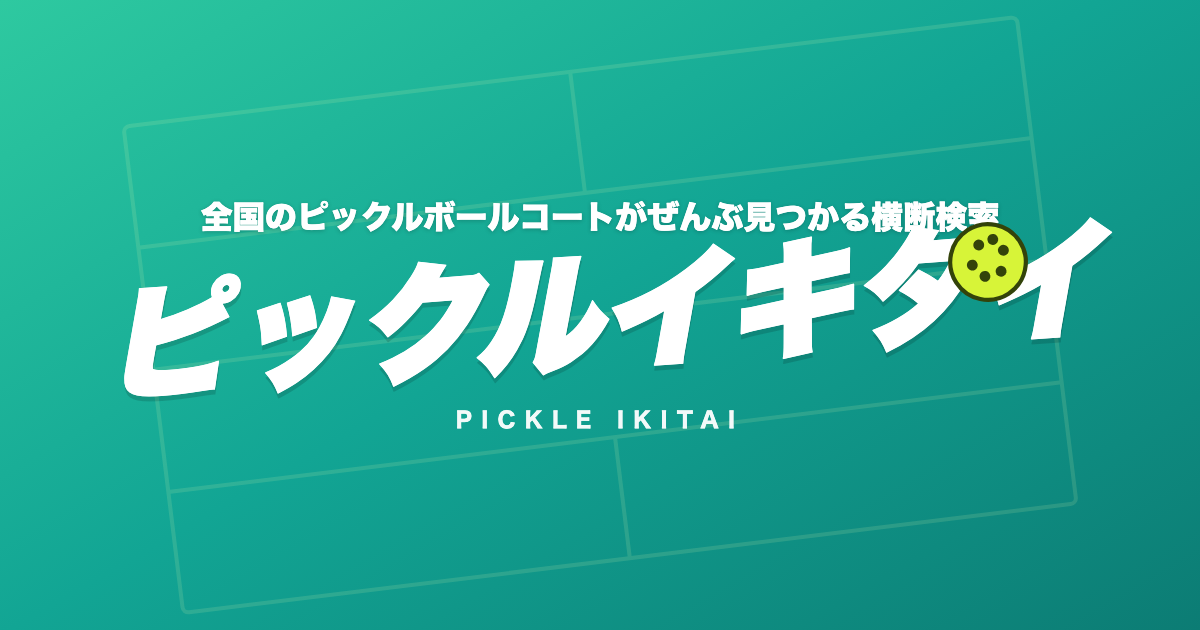
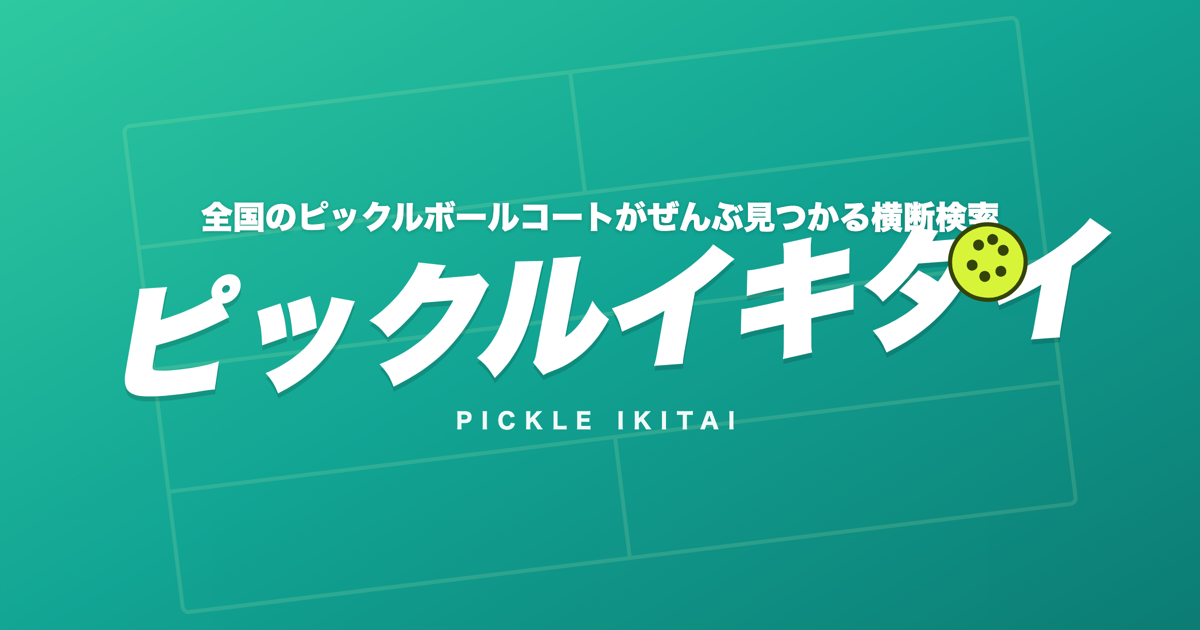
Go nationwide: +27 courts, 旅先/リゾート category, sharper OGP
- Add 27 verified courts across Japan (Kansai/Chubu/Kyushu/Hokkaido +
  Kanto ex-Tokyo), each with coords for distance sorting
- Resort/hotel courts flagged and grouped under a 旅先・リゾート category
  (serves the "travel destination pickleball" need)
- Availability grid now scoped to live Tokyo courts (real data); the
  directory/search/近い順 go nationwide via geolocation distance
- Copy updated 東京 -> 全国 across app, title, description, OGP
- Regenerate OGP at 2x then downscale for a crisp, non-blurry card

diff --git a/src/App.jsx b/src/App.jsx
@@ -115,6 +115,46 @@ const SEED_FACILITIES = [
       { id: "picklr-play", name: "PLAY会員（月額）", kind: "court", price: 19800, unit: "月", capacity: null, label: "入会¥16,500＋¥19,800/月" },
       { id: "picklr-unlimited", name: "UNLIMITED会員（月額）", kind: "court", price: 29700, unit: "月", capacity: null, label: "入会¥27,500＋¥29,700/月" },
     ], rating: "国内最大級・屋内7面", url: "https://www.picklr.jp/locations/tokyo-toyosu", note: "塩浜・屋内7面の国内最大級・米PICKLR日本初上陸", upcoming: true, openDate: "2026年秋" },
+
+  /* ==== 全国のコート（2026-07 調査で確認・確度高い専用/リゾート） ==== */
+  // --- 関東（東京以外） ---
+  { id: "ocean-tsurumi", name: "OCEAN PICKLE CLUB 鶴見", area: "神奈川県", lat: 35.51, lng: 139.68, indoor: false, live: false, cat: "dedicated", plans: [courtPlan("ocean-tsurumi", 4000, "¥4,000/h〜")], rating: "屋外ハード2面", url: "https://www.oceangp.com/about/sports/", note: "横浜市鶴見・デコターフ2面・用具レンタル可" },
+  { id: "raym-kawaguchi", name: "レイムテニスセンター", area: "埼玉県", lat: 35.83, lng: 139.72, indoor: false, live: false, cat: "conv", plans: [courtPlan("raym-kawaguchi", 4400, "¥4,400/h〜")], rating: "屋外2面", url: "https://raym.tsjpn.com/pickleball/", note: "川口市・ハードコート2面・毎週金曜講習会" },
+  { id: "bellwood-matsudo", name: "ベルウッドテニスガーデン", area: "千葉県", lat: 35.79, lng: 139.94, indoor: false, live: false, cat: "dedicated", plans: [courtPlan("bellwood-matsudo", 2200, "¥2,200〜")], rating: "屋外専用2面", url: "https://pickle-one.com/court/chiba/matsudo/bell-wood/", note: "松戸市・2025年専用コート完成・東松戸駅" },
+  { id: "impact-tsukuba", name: "IMPACTつくばピックルボールクラブ", area: "茨城県", lat: 36.08, lng: 140.11, indoor: false, live: false, cat: "dedicated", plans: [courtPlan("impact-tsukuba", 1650, "平日¥1,650〜")], rating: "屋外4面", url: "https://impact-tsukubapickleball-club.square.site/", note: "つくば市・県内初の本格専用4面・2025年6月オープン", cheap: true },
+  { id: "maebashi-pc", name: "前橋ピックルボールセンター", area: "群馬県", lat: 36.32, lng: 139.00, indoor: true, live: false, cat: "dedicated", plans: [courtPlan("maebashi-pc", 3300, "平日¥3,300〜")], rating: "屋内3面", url: "https://goldsgym.jp/news/27874", note: "高崎市・県内初の専用3面・2024年8月オープン" },
+  { id: "prex-tochigi", name: "P-REX（ピーレックス）", area: "栃木県", lat: 36.68, lng: 139.96, indoor: false, live: false, cat: "dedicated", plans: [courtPlan("prex-tochigi", 2200, "要問合せ")], rating: "屋外専用", url: "https://prex-tk.com/", note: "さくら市・日本初の専用屋外コート（2021年）・スクール運営" },
+
+  // --- 関西 ---
+  { id: "dpc-kobe", name: "DIADEM PICKLEBALL KOBE", area: "兵庫県", lat: 34.65, lng: 135.14, indoor: true, live: false, cat: "dedicated", plans: [courtPlan("dpc-kobe", 4400, "¥4,400/h")], rating: "屋内5面", url: "https://dpckobe.jp/", note: "神戸市長田・日本最大級5面・米DIADEM提携・新長田駅近" },
+  { id: "pb-base-osaka", name: "Pickleball Base Osaka", area: "大阪府", lat: 34.58, lng: 135.44, indoor: false, live: false, cat: "dedicated", plans: [courtPlan("pb-base-osaka", 3000, "平日¥3,000〜")], rating: "屋外6面", url: "https://www.pickleballosaka.online/", note: "堺市・西日本最多6面・国際基準・南海堺駅直結" },
+  { id: "pb-one-osaka", name: "ピックルボールワン大阪", area: "大阪府", lat: 34.75, lng: 135.55, indoor: true, live: false, cat: "dedicated", plans: [courtPlan("pb-one-osaka", 1000, "¥1,000/h")], rating: "屋内", url: "https://pickle-one.com/court/osaka/", note: "大阪市東淀川・平日半額キャンペーンあり", cheap: true },
+  { id: "kyoto-ptc", name: "京都ピックルボールトレーニングセンター", area: "京都府", lat: 34.93, lng: 135.72, indoor: true, live: false, cat: "dedicated", plans: [courtPlan("kyoto-ptc", 2750, "会員¥2,750〜")], rating: "屋内4面", url: "https://navi.play-pickleball.jp/", note: "京都市伏見・4面DECOターフ・会員は用具無料レンタル" },
+
+  // --- 中部 ---
+  { id: "sasashima", name: "SASASHIMA PICKLEBALL CLUB", area: "愛知県", lat: 35.16, lng: 136.88, indoor: false, live: false, cat: "dedicated", plans: [courtPlan("sasashima", 3000, "要問合せ")], rating: "名古屋初の屋外専用", url: "https://pickle-one.com/court/aichi/", note: "名古屋市中川・名古屋初の屋外専用コート・2026年6月オープン" },
+  { id: "nagoya-pb-base", name: "Nagoya Pickleball Base", area: "愛知県", lat: 35.17, lng: 136.90, indoor: true, live: false, cat: "dedicated", plans: [courtPlan("nagoya-pb-base", 3000, "要問合せ")], rating: "屋内専用", url: "https://navi.play-pickleball.jp/", note: "名古屋の専用インドアコート" },
+  { id: "marin-handa", name: "マリンピックルボールクラブ", area: "愛知県", lat: 34.89, lng: 136.93, indoor: false, live: false, cat: "dedicated", plans: [courtPlan("marin-handa", 3000, "要問合せ")], rating: "愛知県初の屋外専用", url: "https://prtimes.jp/main/html/rd/p/000000004.000179964.html", note: "半田市・愛知県初の専用アウトドア・2026年6月オープン" },
+
+  // --- 中国・四国・九州 ---
+  { id: "pivole-fukuoka", name: "ピヴォーレ福岡", area: "福岡県", lat: 33.65, lng: 130.44, indoor: true, live: false, cat: "dedicated", plans: [courtPlan("pivole-fukuoka", 3000, "要問合せ")], rating: "九州初の屋内専用4面", url: "https://www.pivole.com/", note: "福岡市東・九州初の屋内専用・ソフトコート最大4面・シャワー完備" },
+  { id: "tagawa-tc", name: "田川テニスクラブ ピックルボール専用コート", area: "福岡県", lat: 33.67, lng: 130.86, indoor: false, live: false, cat: "dedicated", plans: [courtPlan("tagawa-tc", 2200, "¥2,200/h")], rating: "九州初の屋外専用4面", url: "https://navi.play-pickleball.jp/", note: "田川郡香春・ハードコート4面常設・2025年" },
+  { id: "pb-kumamoto", name: "ピックルボールくまもと", area: "熊本県", lat: 32.66, lng: 130.68, indoor: true, live: false, cat: "dedicated", plans: [courtPlan("pb-kumamoto", 500, "¥500/h")], rating: "屋内1面・喫茶併設", url: "https://reserva.be/pickleball55kumamoto", note: "宇城市・県内初の専用レンタルコート", cheap: true },
+  { id: "nfl-tokushima", name: "NFL末広体育館", area: "徳島県", lat: 34.07, lng: 134.57, indoor: true, live: false, cat: "dedicated", plans: [courtPlan("nfl-tokushima", 2200, "1面¥2,200/h")], rating: "屋内4面", url: "https://nfl.works/pickleball/", note: "徳島市・徳島初の専用4面・2026年4月本開業・初回無料体験" },
+  { id: "jiyu-marugame", name: "自遊空間 丸亀川西店", area: "香川県", lat: 34.30, lng: 133.80, indoor: true, live: false, cat: "dedicated", plans: [courtPlan("jiyu-marugame", 1120, "パック料金")], rating: "屋内常設", url: "https://jiqoo.jp/shop/9931650/", note: "丸亀市・ネットカフェ内の常設コート・2024年5月", cheap: true },
+
+  // --- 北海道 ---
+  { id: "neo-sapporo", name: "PLACE OF SPORTS NEO", area: "北海道", lat: 43.05, lng: 141.42, indoor: true, live: false, cat: "conv", plans: [courtPlan("neo-sapporo", 2000, "時間帯変動")], rating: "屋内6-8面・24時間", url: "https://neo-spo.com/", note: "札幌市白石・24時間利用可・通年・教室/大会あり" },
+
+  // --- 旅先・リゾート（ホテル/温泉/リゾート併設） ---
+  { id: "tokyu-hamanako", name: "東急リゾートタウン浜名湖", area: "静岡県", lat: 34.76, lng: 137.55, indoor: false, live: false, cat: "trip", plans: [courtPlan("tokyu-hamanako", 2200, "¥2,200/h")], rating: "USA公認4面", url: "https://www.tokyu-resort.co.jp/", note: "浜松市・USA Pickleball公認4面・リゾート内", resort: true },
+  { id: "tokyu-tateshina", name: "東急リゾートタウン蓼科", area: "長野県", lat: 36.10, lng: 138.30, indoor: false, live: false, cat: "trip", plans: [courtPlan("tokyu-tateshina", 4000, "¥4,000/h")], rating: "USA公認2面", url: "https://www.tokyu-resort.co.jp/", note: "茅野市・甲信越初のUSA Pickleball公認2面", resort: true },
+  { id: "pica-fujiyama", name: "PICA Fujiyama", area: "山梨県", lat: 35.48, lng: 138.77, indoor: false, live: false, cat: "trip", plans: [courtPlan("pica-fujiyama", 3000, "要問合せ")], rating: "全天候型", url: "https://www.pica-resort.jp/", note: "富士河口湖・東日本初の全天候型コート・2025年8月オープン", resort: true },
+  { id: "nemu-resort", name: "NEMU RESORT", area: "三重県", lat: 34.30, lng: 136.79, indoor: false, live: false, cat: "trip", plans: [courtPlan("nemu-resort", 3000, "要問合せ")], rating: "リゾート内", url: "https://www.nemuresort.com/", note: "志摩市・伊勢志摩国立公園内・2026年4月オープン", resort: true },
+  { id: "rusutsu", name: "ルスツリゾート ピックルボールコート", area: "北海道", lat: 42.74, lng: 140.90, indoor: false, live: false, cat: "trip", plans: [courtPlan("rusutsu", 3000, "¥3,000/h")], rating: "PJF公認8面", url: "https://rusutsu.com/summer-activities/pickleball/", note: "留寿都村・道内初の専用8面・観覧席あり（夏季営業）", resort: true },
+  { id: "asarigawa", name: "朝里川温泉ホテル ピックルボールコート", area: "北海道", lat: 43.13, lng: 141.05, indoor: false, live: false, cat: "trip", plans: [courtPlan("asarigawa", 3000, "¥3,000/h（宿泊者無料）")], rating: "ホテル併設1面", url: "https://asarigawaonsenhotel.com/", note: "小樽市・温泉ホテル併設・宿泊者は1h無料・完全予約制", resort: true },
+  { id: "halekulani-okinawa", name: "ハレクラニ沖縄", area: "沖縄県", lat: 26.43, lng: 127.80, indoor: false, live: false, cat: "trip", plans: [courtPlan("halekulani-okinawa", 5100, "¥5,100/h")], rating: "宿泊者限定", url: "https://www.okinawa.halekulani.com/activity/100/", note: "恩納村・ラグジュアリーリゾート・宿泊者限定・2024年6月", resort: true },
+  { id: "nagasaki-stadium", name: "長崎スタジアムシティ ピックルボールコート", area: "長崎県", lat: 32.76, lng: 129.86, indoor: false, live: false, cat: "trip", plans: [courtPlan("nagasaki-stadium", 500, "平日¥500〜")], rating: "屋外5面・屋上", url: "https://www.nagasakistadiumcity.com/activity/pickleball/", note: "長崎市・HAPPINESS ARENA屋上5面・年中無休・アプリ予約", resort: true, cheap: true },
 ];
 
 /* 施設の詳細情報（分かっているものだけ）。access=最寄駅, hours=営業時間, amenities=設備 */
@@ -159,7 +199,7 @@ const CATS = [
   { key: "dedicated", label: "専用コート" },
   { key: "public", label: "公共・格安" },
   { key: "conv", label: "テニス転用" },
-  { key: "trip", label: "遠征OK" },
+  { key: "trip", label: "🏝 旅先・リゾート" },
 ];
 
 const AREA_COORDS = {
@@ -573,9 +613,11 @@ export default function PickleIkitai() {
   const scrollTo = (r) => r.current?.scrollIntoView({ behavior: "smooth", block: "start" });
 
   const ALL_FACS = useMemo(() => [...SEED_FACILITIES, ...userFacs], [userFacs]);
-  const areas = ["all", ...new Set(ALL_FACS.filter((f) => f.cat !== "trip").map((f) => f.area))];
+  // 空き枠グリッドはリアルタイムデータのある稼働コート（＝東京）に限定
+  const areas = ["all", ...new Set(ALL_FACS.filter((f) => f.live).map((f) => f.area))];
   // 開業前(upcoming)の施設は空き枠グリッドの集計対象から除外（誤情報防止）
-  const visibleFacs = ALL_FACS.filter((f) => !f.upcoming && (areaFilter === "all" || f.area === areaFilter));
+  // 空き枠は稼働コート（live）のみ。開業前・全国の未連携コートは対象外
+  const visibleFacs = ALL_FACS.filter((f) => f.live && (areaFilter === "all" || f.area === areaFilter));
 
   const windowDays = ALL_DAYS.slice(winStart, winStart + 3);
   const selDay = ALL_DAYS[dayIdx] || ALL_DAYS[0];
@@ -989,7 +1031,7 @@ export default function PickleIkitai() {
         <CourtPattern />
         <div style={{ position: "relative", zIndex: 2, width: "100%", display: "flex", flexDirection: "column", alignItems: "center" }}>
           <div className="lpTagline" style={{ fontWeight: 800, marginBottom: "clamp(20px, 4vh, 36px)", textAlign: "center", textShadow: "0 1px 4px rgba(0,0,0,0.25)" }}>
-            東京のピックルボールコートがぜんぶ見つかる横断検索サイト
+            全国のピックルボールコートがぜんぶ見つかる横断検索サイト
           </div>
 
           <Logo big />
@@ -1098,7 +1140,7 @@ export default function PickleIkitai() {
           <p style={{ textAlign: "center", fontSize: 14, lineHeight: 2, color: "#455B57", maxWidth: 640, margin: "10px auto 0" }}>
             「今週末ピックルやりたい」のに、どこでできるか分からない。<br className="hideMobile" />
             公式サイトを5個も6個も見て回って、結局予定が流れる——。<br className="hideMobile" />
-            ピックルイキタイは、東京+関東のコートの空き枠をひとつの画面に集めた横断検索ポータルです。予約は各コートの公式サイトで。
+            ピックルイキタイは、全国のコートを距離順・料金順でまとめて探せる横断検索ポータルです。予約は各コートの公式サイトで。
           </p>
           <div className="aboutGrid">
             {[

diff --git a/index.html b/index.html
@@ -3,8 +3,8 @@
   <head>
     <meta charset="UTF-8" />
     <meta name="viewport" content="width=device-width, initial-scale=1.0" />
-    <title>ピックルイキタイ | 東京のピックルボールコート横断検索</title>
-    <meta name="description" content="東京+関東のピックルボールコートの空き枠をまとめてチェック。専用コートから公共体育館まで、近い順・安い順で探せる横断検索ポータル。" />
+    <title>ピックルイキタイ | 全国のピックルボールコート横断検索</title>
+    <meta name="description" content="全国のピックルボールコートを近い順・安い順でまとめて検索。専用コートから公共体育館まで、近い順・安い順で探せる横断検索ポータル。" />
 
     <!-- Favicon / アプリアイコン (ピックルボール) -->
     <link rel="icon" type="image/x-icon" href="/favicon.ico" />
@@ -19,14 +19,14 @@
     <!-- OGP / X共有カード -->
     <meta property="og:type" content="website" />
     <meta property="og:title" content="ピックルイキタイ" />
-    <meta property="og:description" content="東京のピックルボールコートがぜんぶ見つかる横断検索サイト" />
+    <meta property="og:description" content="全国のピックルボールコートがぜんぶ見つかる横断検索サイト" />
     <meta property="og:url" content="https://pickleikitai.com/" />
     <meta property="og:image" content="https://pickleikitai.com/ogp.png" />
     <meta property="og:image:width" content="1200" />
     <meta property="og:image:height" content="630" />
     <meta name="twitter:card" content="summary_large_image" />
     <meta name="twitter:title" content="ピックルイキタイ" />
-    <meta name="twitter:description" content="東京のピックルボールコートがぜんぶ見つかる横断検索サイト" />
+    <meta name="twitter:description" content="全国のピックルボールコートがぜんぶ見つかる横断検索サイト" />
     <meta name="twitter:image" content="https://pickleikitai.com/ogp.png" />
   </head>
   <body>